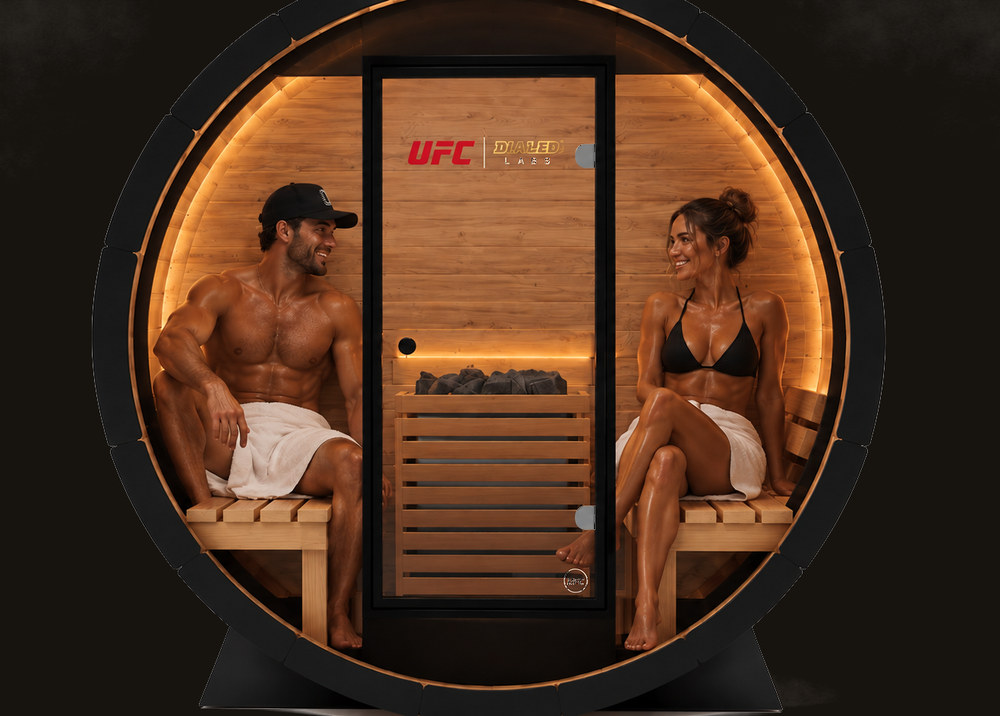
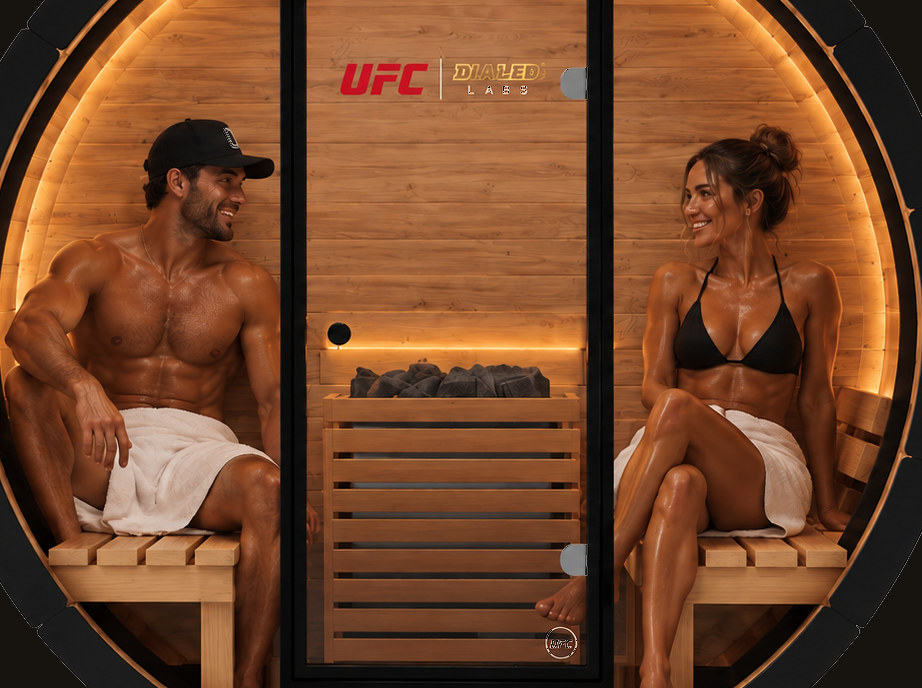
Biosuite flagships: ARRC Elysium image, tighter sauna crop, plunge reframed, hydrogen water replaces vibration

diff --git a/biosuite/index.html b/biosuite/index.html
@@ -376,7 +376,7 @@
     <div class="sub-eyebrow" style="margin-top:28px;">Flagship Systems</div>
     <div class="flagships">
       <div class="flag">
-        <img src="flag-red-light.jpg" alt="Full-body red and near-infrared light therapy bed" loading="lazy" style="object-position:center;" />
+        <img src="flag-red-light.jpg" alt="ARRC LED Elysium full-body red and near-infrared light bed" loading="lazy" style="object-position:center 55%;" />
         <div class="flag-body">
           <div class="flag-cat">Light</div>
           <div class="flag-name">Red &amp; Near-Infrared Bed</div>
@@ -400,7 +400,7 @@
         </div>
       </div>
       <div class="flag">
-        <img src="flag-sauna.jpg" alt="Barrel sauna" loading="lazy" style="object-position:center 35%;" />
+        <img src="flag-sauna.jpg" alt="Barrel sauna interior" loading="lazy" style="object-position:center 30%;" />
         <div class="flag-body">
           <div class="flag-cat">Heat</div>
           <div class="flag-name">Sauna</div>
@@ -408,7 +408,7 @@
         </div>
       </div>
       <div class="flag">
-        <img src="flag-plunge.jpg" alt="Cold plunge on the deck" loading="lazy" style="object-position:center 40%;" />
+        <img src="flag-plunge.jpg" alt="Cold plunge on the deck" loading="lazy" style="object-position:center 12%;" />
         <div class="flag-body">
           <div class="flag-cat">Cold</div>
           <div class="flag-name">Cold Plunge</div>
@@ -424,11 +424,11 @@
         </div>
       </div>
       <div class="flag">
-        <img src="flag-vibration.jpg" alt="Whole-body vibration platform" loading="lazy" style="object-position:center 35%;" />
+        <img src="flag-hydrogen.jpg" alt="Hydrogen water flask" loading="lazy" style="object-position:center 45%;" />
         <div class="flag-body">
-          <div class="flag-cat">Movement</div>
-          <div class="flag-name">Whole-Body Vibration</div>
-          <p class="flag-desc">Vibration training for circulation, lymphatic flow, strength, and bone health.</p>
+          <div class="flag-cat">Hydration</div>
+          <div class="flag-name">Hydrogen Water</div>
+          <p class="flag-desc">Hydrogen-rich water on tap and on the go, the simplest daily upgrade in the home.</p>
         </div>
       </div>
       <div class="flag">
